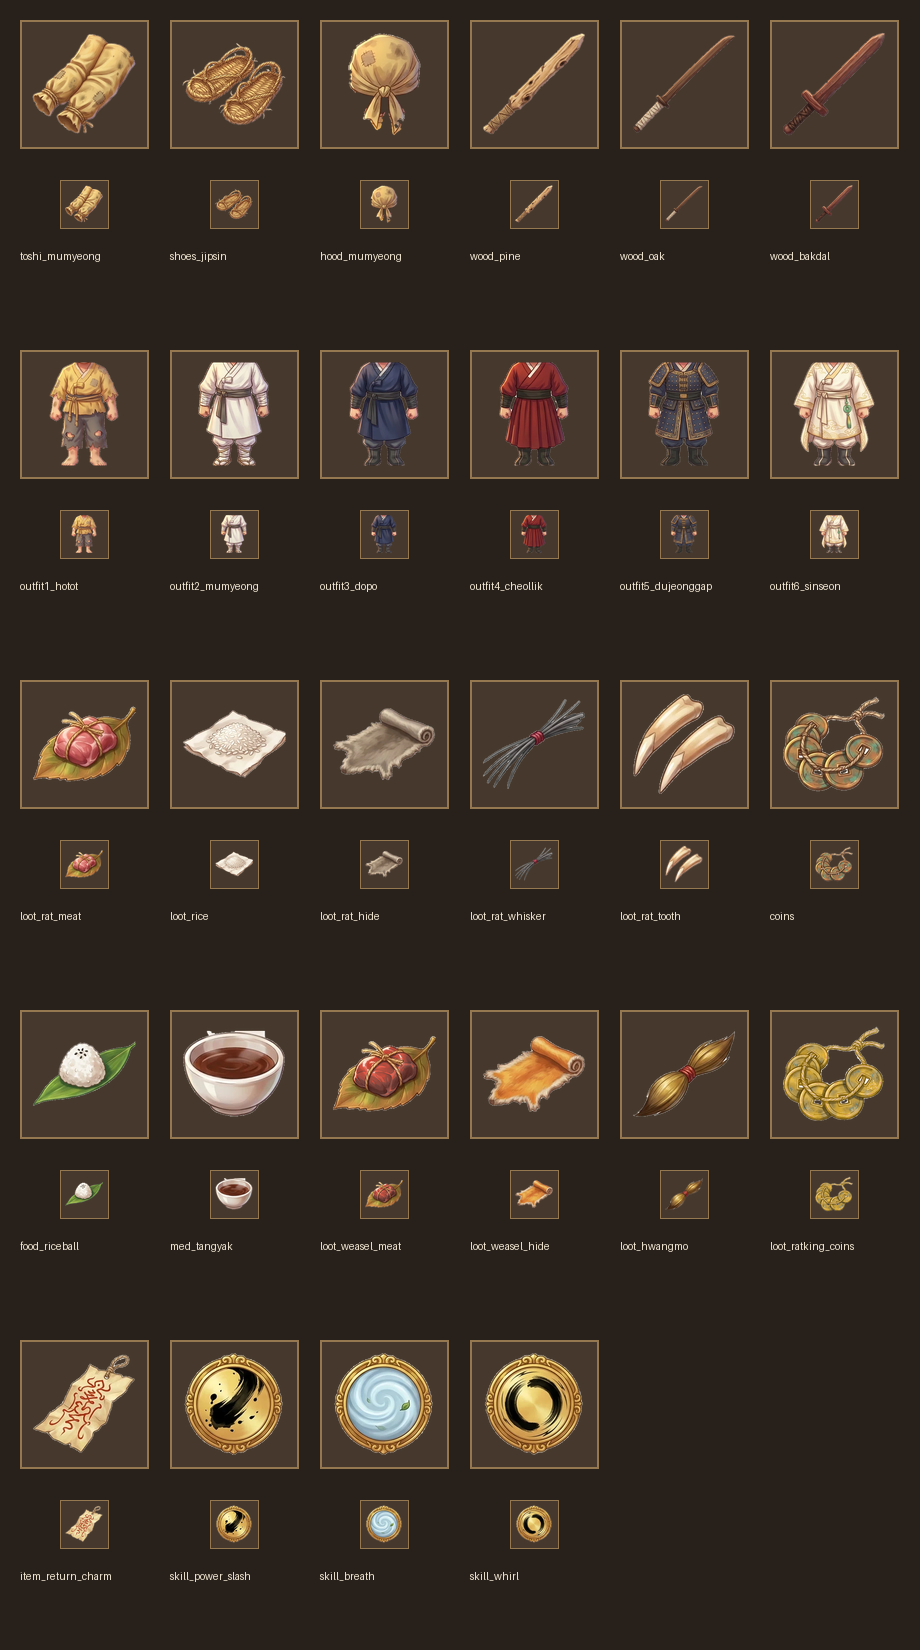
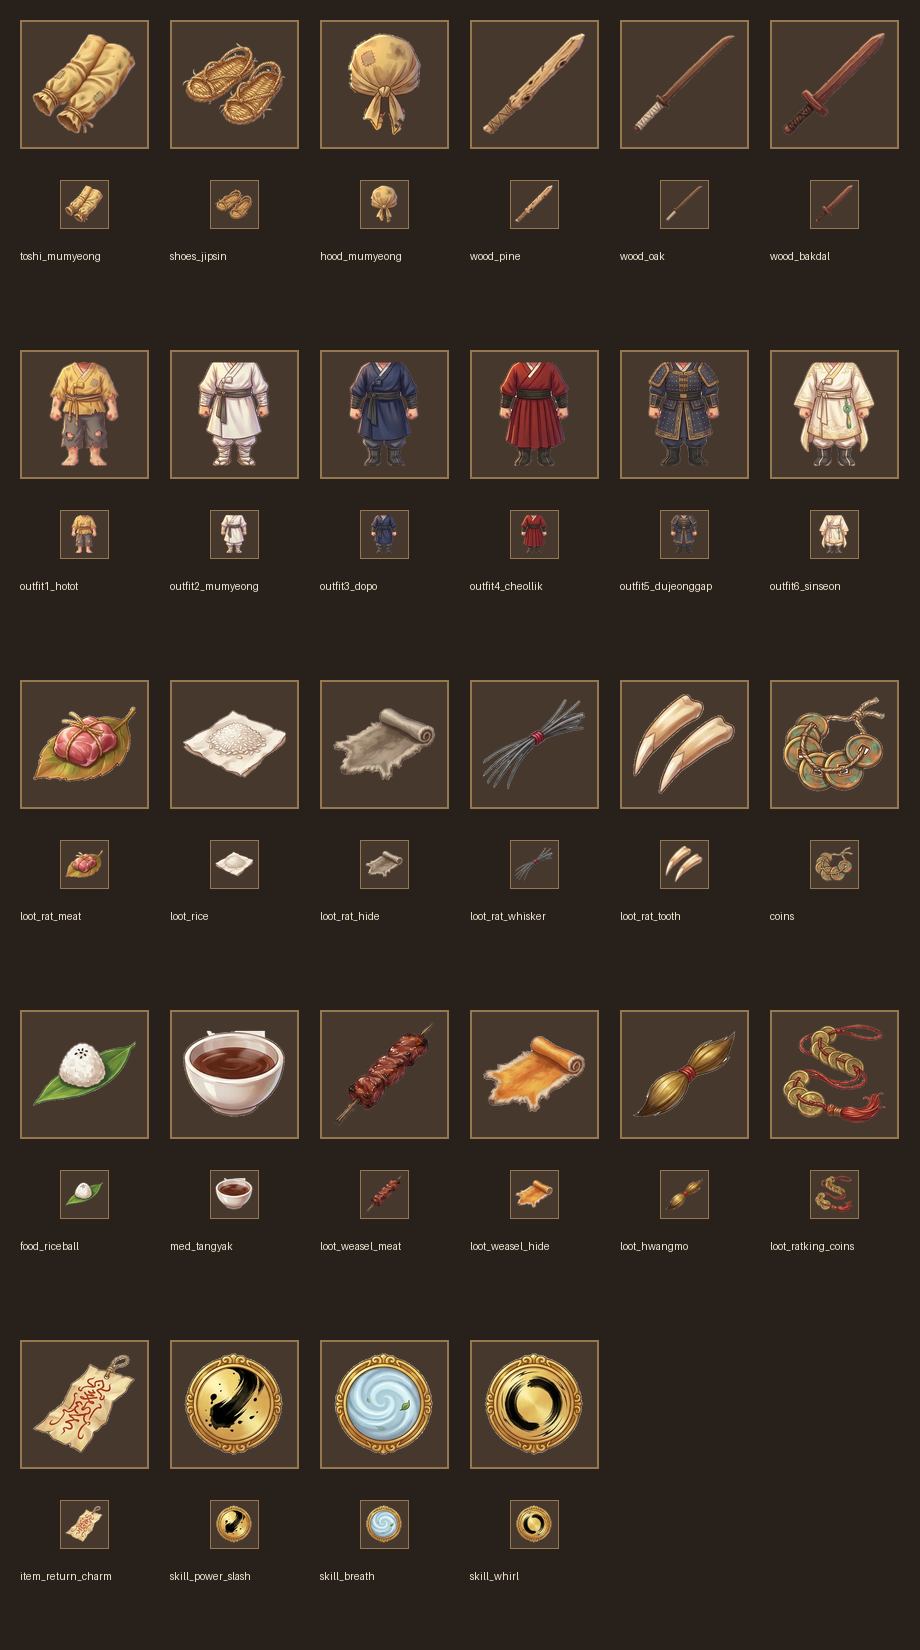
족제비 고기·쥐왕 꿰미 아이콘 교체, 10-15 피드백 규격(무예 연출·데미지 숫자·귀환·정보창·능력치·새 무기)과 Flow 47·48
Claude-Session: https://claude.ai/code/session_012HS4zzB5kdJtkteNCqyZq6

diff --git a/tools/art/icons.py b/tools/art/icons.py
@@ -79,6 +79,10 @@ for i,n in enumerate(['loot_weasel_meat','loot_weasel_hide','loot_hwangmo','loot
     if n=='loot_weasel_meat': c=recolor(c,meat_dark)
     if n=='loot_ratking_coins': c=recolor(c,gold)
     icons[n]=fit(c,n)
+# 46번(2026-10-15): 족제비 고기·쥐왕 꿰미 다시 그림 → 색 바꾼 임시본 대신
+i3=Image.open(G+'assets/source/v3/items_icons3_sheet.jpg'); hw=i3.width//2
+icons['loot_weasel_meat']=fit(cutout(i3,(0,0,hw,i3.height)),'loot_weasel_meat')
+icons['loot_ratking_coins']=fit(cutout(i3,(hw,0,i3.width,i3.height)),'loot_ratking_coins')
 # preview on slot frames, at game-ish sizes
 P=Image.new("RGB",(6*150+20,330*((len(icons)+5)//6)),(40,32,26)); D=ImageDraw.Draw(P)
 for i,(k,c) in enumerate(icons.items()):

diff --git a/docs/spec/feedback_1015.md b/docs/spec/feedback_1015.md
@@ -1,0 +1,73 @@
+# 2026-10-15 강콩 피드백: 무예 연출·데미지 숫자·귀환·걸음·아이템 정보창·능력치·새 무기
+
+> 강콩 아이폰 시험(레벨 6, 새 그림체 반영판) 후 피드백. **숫자는 모두 임시값** — 해 보고 고침. 수치는 `data/`에. CLAUDE.md 목차에서 연결됨.
+
+강콩 원문 요약: 무예 효과가 없음 / 휘돌려 베기가 너무 짧음 / 마을 귀환 수단 필요 / 데미지가 떠야 함 / 걸음 조금 더 빠르게 / 무기 더 / 아이템 정보창과 데미지(능력치) 필요.
+
+## 1. 무예 연출 (새 그림 없음, 코드 효과)
+
+지금은 무예를 써도 일반 공격과 거의 같아 보임. 무예마다 "썼다"는 게 한눈에 보이게:
+
+| 무예 | 연출 |
+|---|---|
+| 힘껏 베기 | ① 모으기 0.25초: 칼에 금빛이 번지며 몸이 살짝 뒤로(지금 lean 재사용) ② 휘두를 때 궤적 굵게(지금 `trailWidthMul`) + 칼 색 대신 **금빛 궤적** ③ 앞쪽으로 **금·흰 반달 충격파**가 약 60px 퍼지며 0.25초에 사라짐 ④ 맞은 몬스터에 큰 먹 튐·흔들림(지금 배율 유지) |
+| 숨 고르기 | ① 발밑에서 **푸른 고리 2개**가 0.15초 간격으로 퍼짐(지름 20 → 70px, 0.6초) ② 몸에서 **작은 빛 알갱이 10개**가 위로 떠오르며 사라짐(1.2초) ③ 머리 위에 **초록 회복 숫자 "+8"** (아래 2번) ④ 지금 몸 빛남(`glowColor`·`glowMs`) 유지 |
+| 휘돌려 베기 | **지속형으로 바꿈**: `spinMs` 480 → **2000**(약 2초 동안 계속 돎, 한 바퀴 400ms = 5바퀴). **0.4초마다** 반경 안 몬스터를 모두 때림(`tickMs` 400, 한 번에 `damageMul` 0.7 — 5번 맞으면 일반 공격 3.5배). 도는 동안 **천천히 움직일 수 있음**(걸음의 60%, `moveMul` 0.6). 몸 둘레에 **반투명 바람 고리**(반경 `radius`, 흰빛, 돌면서 끊긴 호 3개가 빙빙)와 바닥 먼지. `cooldownMs` 10000 → **12000**. `radius` 42 → 48 |
+
+- 무예 단추는 기다리는 시간 동안 어둡게 + 남은 시간 원형 표시(이미 있으면 그대로).
+- 효과 색·시간은 `data/skills.json`에서 조정되게.
+
+## 2. 데미지 숫자
+
+`data/game.json`에 이미 데미지 숫자 값이 있음(13px 흰색) — **강콩 화면에서 안 보였음: 너무 작거나 안 뜨는 것, 확인 필요**. 아래로 바꿈:
+
+| 경우 | 모양 |
+|---|---|
+| 몬스터가 맞음(공격) | 흰색 **22px**, 짙은 갈색 테두리 3px |
+| 몬스터가 맞음(무예) | **금색 26px**, 같은 테두리 |
+| 주인공이 맞음 | **빨강 22px**, 주인공 머리 위 |
+| 회복 | **초록 "+n" 22px** |
+
+- 뜰 때 0.12초 동안 1.4배 → 1배로 "톡" 튀고, 위로 떠오르며(`floatPx` 28) 0.6초 뒤 흐려짐.
+- 0.3초 안에 여러 개가 뜨면 좌우로 ±10px 흩뜨려 겹치지 않게(휘돌려 베기).
+- 숫자도 카메라 1.0배 기준 크기. 글꼴은 지금 쓰는 굵은 글꼴.
+
+## 3. 걸음 속도
+
+`data/game.json` `player.speed` 110 → **125**, `player.walkFrameMs` 130 → **115**(발 미끄러짐 방지). 강콩 아이폰 확인 필요.
+
+## 4. 마을 귀환 (귀환 부적은 이미 있음 — 찾기 쉽게)
+
+- 지금: 귀환 부적(`item_return_charm`)은 성황당(마을 왼쪽 아래 서낭나무, x440 y726)에서 10푼에 팔고, 가방에서 누르면 마을로 돌아옴. **강콩이 못 찾음** → 아래로 보강:
+- **시작할 때 3장** 줌(지금 저장에도 한 번만 넣어 줌).
+- **화면 오른쪽 위 "가방" 왼쪽에 "귀환" 단추**: 부적 아이콘 + 남은 개수. 누르면 **1초 동안 몸이 푸르게 빛난 뒤** 성황당 앞으로 이동(그 사이 맞으면 취소, 부적은 안 줄어듦). 마을 안에서는 흐리게(못 씀). 부적이 0장이면 흐리게 + 누르면 "성황당에서 살 수 있다" 글자.
+- 약방 영감도 귀환 부적을 팔게(마을 가운데라 찾기 쉬움, 같은 값).
+
+## 5. 아이템 정보창
+
+- 가방·장비창·가게에서 **아이콘을 누르면 정보창**(PC는 마우스를 올리면 작은 창, 누르면 정보창).
+- 내용(위에서 아래로): 큰 아이콘(96px) · 이름 · 종류(무기/옷/머리/팔/발/전리품/먹을거리/쓰는 것) · **능력치**(아래 6번, 지금 낀 것과 비교해 오르면 초록 ▲, 내리면 빨강 ▼) · 설명 1~2줄(`data/items.json` `desc`, 아래 목록) · 파는 값 · 단추(끼기/벗기, 쓰기, 가게에서는 팔기·사기, 닫기).
+- 창은 화면 가운데, 바깥을 누르면 닫힘. 가로 화면에서 높이 70% 넘지 않게.
+- 설명(임시): 소나무 목검 "가볍고 거친 연습용 목검." / 참나무 목검 "단단한 참나무를 깎은 목검." / 박달나무 목검 "무겁고 단단해 한 대가 묵직하다." / 무명 두건 "머리를 감싸는 무명천." / 무명 토시 "팔뚝을 감싸 상처를 막는다." / 짚신 "가볍게 짠 짚신. 발걸음이 가볍다." / 전리품은 "○○에게 팔 수 있다.", "무예를 배울 때 쓴다." 같이 쓰임을 적음(가게 `buys`와 무예 `cost`에서 자동으로 만들어도 됨).
+
+## 6. 능력치 (임시) — 정보창과 실제 전투에 같이 씀
+
+- **공격력** = 무기 `damage`(맨손은 `attack.damage`) + 레벨 보너스(지금 `damageBonus`). 정보창에 "공격력 2", 휘두르기 빠르기는 "빠름/보통/느림"(`cooldownMs` 470 이하 빠름, 520 이상 느림).
+- **방어력**: 맞을 때 데미지 − 방어력(최소 1). 옷·머리·팔 방어력 합.
+  - 옷: 홑옷 0, 무명옷 1, 도포 1, 철릭 2, 두정갑 3, 신선복 2
+  - 무명 두건 1, 무명 토시 1
+- **걸음**: 짚신 +6%(`speed` 배율).
+- `data/items.json` `stats`에 위 값을 넣고, 정보창·장비창에 합계(공격력·방어력·걸음) 표시.
+
+## 7. 새 무기 3종 (그림 필요 → Flow 47번, 대장장이 48번)
+
+목검 다음 단계. 휘두르기·궤적·손 덮개는 목검과 같은 방식(그림 규격 240×960, 쥐는 점 (120,800), 칼끝 위). 파는 곳은 **대장장이**(새 마을 사람, 대장간 앞 — 자리 확인 필요).
+
+| id | 이름 | 레벨 | 공격력 | swingMs / cooldownMs | 칼끝 거리(tipFromGrip) | 값 | 궤적 색 |
+|---|---|---|---|---|---|---|---|
+| `iron_rusty` | 녹슨 쇠칼 | 6 | 4 | 230 / 520 | 460 | 80푼 | #c9b8a6 |
+| `iron_hwando` | 무쇠 환도 | 9 | 5 | 220 / 500 | 480 | 2냥 + 쥐가죽 5 | #dfe4ea |
+| `steel_hwando` | 청강 환도 | 12 | 7 | 210 / 480 | 500 | 5냥 + 황모 2 | #e9f3ff |
+
+- 레벨이 모자라면 정보창에 "레벨 9부터" 빨강, 끼기 단추 흐리게.
+- 그림이 오기 전에는 목검 그림을 회색으로 물들여 시험해도 됨.

diff --git a/docs/prompts_2026-10-12_newstyle.md b/docs/prompts_2026-10-12_newstyle.md
@@ -320,3 +320,39 @@
 
 [출력] 단색 순수 흰색 배경, 바닥 그림자 없음, 빛 효과 없음, 읽을 수 있는 글자·라벨·칸 나눔 선 없음, 사람·손 없음, 정확히 물건 2개, 가로로 긴 화면(16:9)
 ```
+
+# 5차 (2026-10-15) — 새 무기·대장장이 (`docs/spec/feedback_1015.md` 7번)
+
+- 46번 족제비 고기·쥐왕 꿰미: **합격, 반영됨**(`assets/source/v3/items_icons3_sheet.jpg`).
+
+## 47. 쇠칼 3종
+참조: 합격한 목검 시트(`weapons_sheet`) → 이름 `목검`
+```
+[참조 사용법]
+@목검 의 그림체·색감·빛·시점·크기·놓인 방식을 그대로 따름(부드러운 입체감, 외곽선 아주 얇음, 칼끝이 위로 똑바로 선 옆모습, 손잡이 끝이 같은 수평선 위). 칼 모양은 아래 설명대로 새로 그림.
+
+[만들 것] 쇠로 만든 조선 시대 칼 3자루를 가로 한 줄에, 왼쪽부터:
+1. 녹슨 쇠칼: 곧고 폭이 조금 넓은 쇠 칼날, 군데군데 붉은 녹과 이 빠진 자국, 작고 둥근 쇠 코등이, 낡은 갈색 천을 감은 손잡이. 길이는 @목검 가운데 칼과 비슷.
+2. 무쇠 환도: 아주 살짝 휜 날렵한 외날 칼날, 어두운 회색 무쇠, 작고 둥근 쇠 코등이, 검은 끈을 마름모 모양으로 감은 손잡이, 손잡이 끝에 작은 쇠 마개. 1번보다 조금 김.
+3. 청강 환도: 아주 살짝 휜 맑고 푸른빛이 도는 밝은 강철 칼날에 은은한 하이라이트, 작고 둥근 놋쇠 코등이에 단순한 구름 무늬, 붉은 끈을 마름모 모양으로 감은 손잡이, 손잡이 끝에 놋쇠 마개. 2번보다 조금 김.
+세 자루 모두 칼끝이 위를 향하도록 똑바로 세운 모습(vertical, blade pointing up), 옆에서 본 모습, 손잡이 끝이 같은 수평선 위, 오른쪽으로 갈수록 조금 김, 간격 넓게, 잘리지 않게. 칼집 없음.
+일본 칼(카타나)이나 서양 검처럼 보이지 않게: 코등이는 작고 둥글게, 날 휨은 아주 조금만, 십자 모양 손잡이 가드 없음.
+
+[출력] 단색 순수 흰색 배경, 바닥 그림자 없음, 빛 효과 없음, 사람·손 없음, 글자 없음, 정확히 3자루, 가로로 긴 화면(16:9)
+```
+
+## 48. 대장장이 (마을 사람)
+참조: 합격한 마을 사람 시트(`npc_sheet`) → 이름 `마을사람`
+```
+[참조 사용법]
+@마을사람 의 그림체·색감·빛·시점·크기·머리와 몸 비율을 그대로 따름(부드러운 입체감, 외곽선 아주 얇음, 정면으로 선 전신). 사람은 아래 설명대로 새로 그림.
+
+[만들 것] 조선 시대 시골 마을 대장장이 한 사람, 정면으로 똑바로 선 전신.
+- 마흔 살쯤의 다부진 남자, 짧게 깎은 수염, 이마에 땀, 그을린 얼굴, 굳센 표정에 살짝 웃는 입.
+- 머리: 상투를 틀고 이마에 땀받이 무명 띠.
+- 옷: 소매를 걷어 올린 짙은 회색 저고리, 검댕이 묻은 두꺼운 가죽 앞치마, 짙은 바지에 행전, 짚신.
+- 오른손에 쇠망치를 아래로 들고, 왼손은 허리에.
+- 키와 크기는 @마을사람 의 갖바치와 비슷하게.
+
+[출력] 단색 순수 흰색 배경, 바닥 그림자 없음, 글자 없음, 정확히 1명, 잘리지 않게 발끝까지, 가로로 긴 화면(16:9)
+```

diff --git a/CLAUDE.md b/CLAUDE.md
@@ -57,6 +57,7 @@ docs/          문서 사본
 | [docs/spec/equipment.md](docs/spec/equipment.md) | 장비 칸 5개, 초반 아이템 목록, 아이템 아이콘(`assets/items/icons/`), 최소 장비창·가방 |
 | [docs/spec/economy.md](docs/spec/economy.md) | 초보 구간 1차 시험안: 경험치·레벨, 전리품(쥐고기 등)·엽전(푼·전·냥), 무예 3종(늙은 군관), 가게 사고팔기, 길잡이 의뢰 |
 | [docs/spec/newstyle.md](docs/spec/newstyle.md) | **새 그림체 전환 반영(2026-10-14)**: 바뀐 그림·새 그림(쥐왕·족제비·마을 사람·새 맵 3·아이콘 8) 목록, Claude Code가 바꿀 값(legSplitY·쥐는 점·궤적 이동·새 맵 입구) |
+| [docs/spec/feedback_1015.md](docs/spec/feedback_1015.md) | 2026-10-15 강콩 피드백: 무예 연출(휘돌려 베기 지속형), 데미지 숫자, 걸음 125, 귀환 단추, 아이템 정보창, 능력치(공격력·방어력·걸음) 임시값, 새 무기 3종 |
 | [docs/spec/beginner_area.md](docs/spec/beginner_area.md) | 초보 구간 구성: 들쥐굴 1~3층·족제비굴, 레벨 표(15까지), 새 몬스터(굴 들쥐·곳간 쥐왕·족제비) 수치, 새 전리품·귀환 부적, 마을 사람 그림 |
 | [docs/spec/combat.md](docs/spec/combat.md) | 때리기(맞히기·히트), 싸움 규칙(맞으면 반격·포기), 주인공 체력·체력바 |
 | [docs/spec/monsters.md](docs/spec/monsters.md) | 몬스터 그림 규격, 들쥐·큰 들쥐 크기, 돌아다니기, 몬스터 구역(`spawnZones`) |
@@ -99,6 +100,8 @@ docs/          문서 사본
 - [x] 새 그림체 그림 올라옴(2026-10-14): 옷 6종·홑옷 무기 자세·두건·목검·들쥐·마을·들쥐굴 1층·아이콘은 파일만 바뀜
 - [x] 새 그림체 값 반영(`docs/spec/newstyle.md` "Claude Code가 바꿀 값" 1~2): legSplitY, 홑옷 쥐는 점, 궤적 이동 — 강콩 아이폰 확인 필요
 - [x] 초보 구간 확장(`docs/spec/newstyle.md` 3~6 + `beginner_area.md`): 굴 들쥐·쥐왕·족제비, 마을 사람 그림, 새 전리품·귀환 부적·무예 아이콘, 들쥐굴 2·3층·족제비굴(격자 초안 `docs/map_drafts/`) — 2026-10-15 반영(`newstyle.md` "반영됨"). 새 맵 격자는 초안이라 어긋난 곳은 격자 편집으로, 족제비굴 입구 자리 확인 필요
+- [ ] 2026-10-15 피드백(`docs/spec/feedback_1015.md` 1~6): 무예 연출, 데미지 숫자, 걸음 속도, 귀환 단추, 아이템 정보창, 능력치 — 그림 필요 없음, 바로
+- [ ] 새 무기 3종·대장장이(`feedback_1015.md` 7): 그림(Flow 47·48) 기다림. 수치·정보창은 먼저 넣어도 됨
 - [ ] 옷 2~6 무기 자세 그림: 미룸(나중에 옷마다 3장, 들고 걷기는 합성)
 
 ## 작업 규칙
